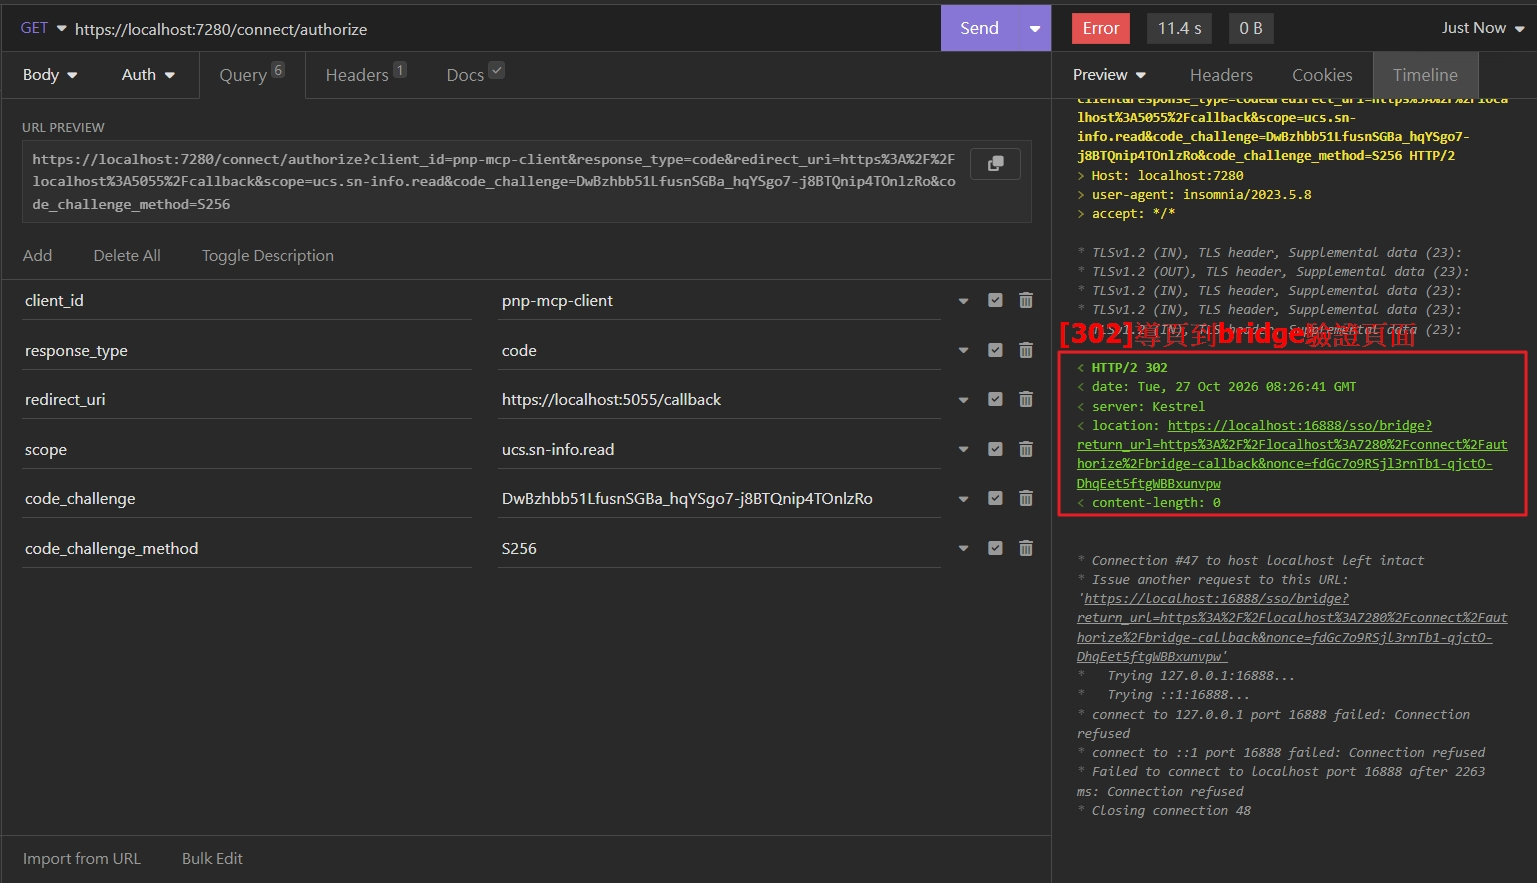
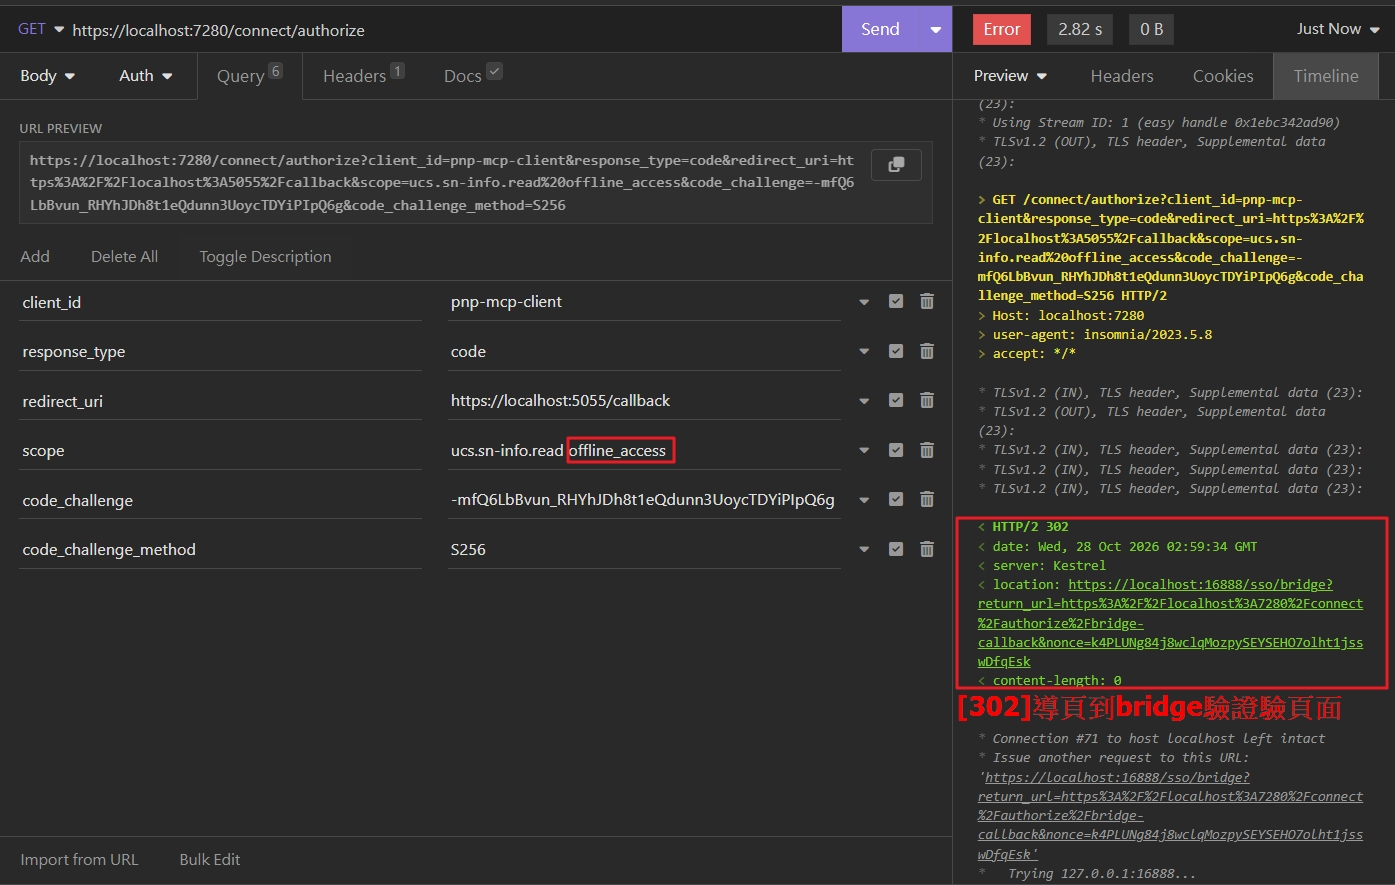
Site updated: 2026-10-28 11:08:41

diff --git a/2026/10/27/OpenIddict-測試/index.html b/2026/10/27/OpenIddict-測試/index.html
@@ -19,7 +19,7 @@
 <meta property="og:image" content="http://example.com/2026/10/27/OpenIddict-%E6%B8%AC%E8%A9%A6/jwt_payload.jpg">
 <meta property="og:image" content="http://example.com/2026/10/27/OpenIddict-%E6%B8%AC%E8%A9%A6/refresh_token.jpg">
 <meta property="article:published_time" content="2026-10-27T07:38:25.000Z">
-<meta property="article:modified_time" content="2026-10-28T02:54:32.763Z">
+<meta property="article:modified_time" content="2026-10-28T03:03:14.815Z">
 <meta property="article:author" content="John Doe">
 <meta property="article:tag" content="OAuth">
 <meta property="article:tag" content="OpenIddict">
@@ -122,7 +122,7 @@
 <h1 id=""><a href="#" class="headerlink" title=""></a></h1><h1 id="-1"><a href="#-1" class="headerlink" title=""></a></h1><h1 id="-2"><a href="#-2" class="headerlink" title=""></a></h1><hr>
 <h2 id="2-呼叫驗證伺服器的api-authorize"><a href="#2-呼叫驗證伺服器的api-authorize" class="headerlink" title="2. 呼叫驗證伺服器的api [authorize]"></a>2. 呼叫驗證伺服器的api [authorize]</h2><p>模擬MCP Client第一次呼叫驗證伺服器依 client_id 查詢 Identity Provider &#x3D; PNP Bridge，並取得nonce，再導頁到bridge驗證頁面。</p>
 <img src="/2026/10/27/OpenIddict-%E6%B8%AC%E8%A9%A6/authorize-1.jpg" class="" title="authorize-1">
-
+<p><span style="color: red;">參數scope如果沒有加上offline_access的話</span>，會無法取得refresh_token</p>
 <ul>
 <li>說明<br>redirect_uri：MCP Client(Claude Desktop)的網址</li>
 </ul>
@@ -134,7 +134,7 @@
 <li>說明<br>nonce：由上一個步驟302轉址的QueryString取得</li>
 </ul>
 <h1 id="-6"><a href="#-6" class="headerlink" title=""></a></h1><h1 id="-7"><a href="#-7" class="headerlink" title=""></a></h1><h1 id="-8"><a href="#-8" class="headerlink" title=""></a></h1><hr>
-<h2 id="4-呼叫驗證伺服器的api-token-GrantType：Authorization-Code"><a href="#4-呼叫驗證伺服器的api-token-GrantType：Authorization-Code" class="headerlink" title="4. 呼叫驗證伺服器的api [token] (GrantType：Authorization_Code)"></a>4. 呼叫驗證伺服器的api [token] (GrantType：Authorization_Code)</h2><p>模擬MCP Client從用authorization code從驗證伺服器取得access token。</p>
+<h2 id="4-呼叫驗證伺服器的api-token-GrantType：Authorization-Code"><a href="#4-呼叫驗證伺服器的api-token-GrantType：Authorization-Code" class="headerlink" title="4. 呼叫驗證伺服器的api [token] (GrantType：Authorization_Code)"></a>4. 呼叫驗證伺服器的api [token] (GrantType：Authorization_Code)</h2><p>模擬MCP Client從用authorization code從驗證伺服器取得access token以及refresh_token。</p>
 <img src="/2026/10/27/OpenIddict-%E6%B8%AC%E8%A9%A6/token.jpg" class="" title="token">
 
 <p>acess_token為JWT，可以用工具解析payload內容。</p>
